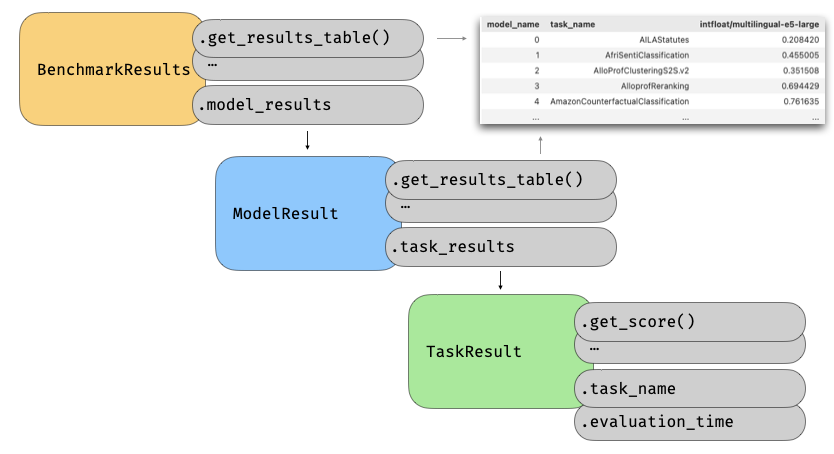
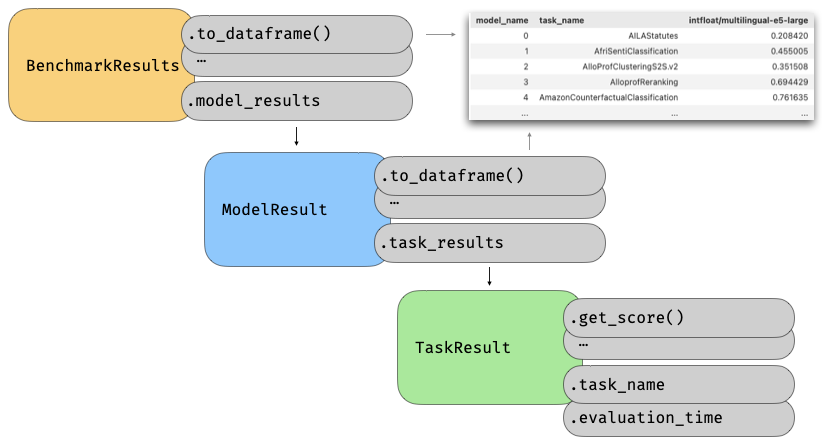
refactor to to_dataframe and combine common dependencies

diff --git a/mteb/load_results/benchmark_results.py b/mteb/load_results/benchmark_results.py
@@ -31,6 +31,41 @@ Score = Any
 logger = logging.getLogger(__name__)
 
 
+def _aggregate_and_pivot(
+    df: pd.DataFrame,
+    columns: list[str],
+    aggregation_level: Literal["subset", "split", "task"],
+    format: Literal["wide", "long"],
+    aggregation_fn: Callable[[list[Score]], Any] | None,
+) -> pd.DataFrame:
+    if aggregation_level == "subset":
+        index_columns = ["task_name", "split", "subset"]
+
+    elif aggregation_level == "split":
+        index_columns = ["task_name", "split"]
+
+    elif aggregation_level == "task":
+        index_columns = ["task_name"]
+
+    # perform aggregation
+    if aggregation_fn is None:
+        aggregation_fn = np.mean
+
+    if format == "wide":
+        return df.pivot_table(
+            index=index_columns,
+            columns=columns,
+            values="score",
+            aggfunc=aggregation_fn,
+        ).reset_index()
+    elif format == "long":
+        return (
+            df.groupby(columns + index_columns)
+            .agg(score=("score", aggregation_fn))
+            .reset_index()
+        )
+
+
 class ModelResult(BaseModel):
     """Data class to hold the results of a model on a set of tasks.
 
@@ -206,7 +241,7 @@ class ModelResult(BaseModel):
 
         return scores_data
 
-    def get_results_table(
+    def to_dataframe(
         self,
         aggregation_level: Literal["subset", "split", "task"] = "task",
         aggregation_fn: Callable[[list[Score]], Any] | None = None,
@@ -257,33 +292,13 @@ class ModelResult(BaseModel):
         else:
             _columns.append("model_revision")
 
-        # Aggregation
-        if aggregation_level == "subset":
-            index_columns = ["task_name", "split", "subset"]
-
-        elif aggregation_level == "split":
-            index_columns = ["task_name", "split"]
-
-        elif aggregation_level == "task":
-            index_columns = ["task_name"]
-
-        # perform aggregation
-        if aggregation_fn is None:
-            aggregation_fn = np.mean
-
-        if format == "wide":
-            return df.pivot_table(
-                index=index_columns,
-                columns=_columns,
-                values="score",
-                aggfunc=aggregation_fn,
-            ).reset_index()
-        elif format == "long":
-            return (
-                df.groupby(_columns + index_columns)
-                .agg(score=("score", aggregation_fn))
-                .reset_index()
-            )
+        return _aggregate_and_pivot(
+            df,
+            columns=_columns,
+            aggregation_level=aggregation_level,
+            format=format,
+            aggregation_fn=aggregation_fn,
+        )
 
     def __hash__(self) -> int:
         return id(self)
@@ -604,7 +619,7 @@ class BenchmarkResults(BaseModel):
                     )
         return entries
 
-    def get_results_table(
+    def to_dataframe(
         self,
         aggregation_level: Literal["subset", "split", "task"] = "task",
         aggregation_fn: Callable[[list[Score]], Any] | None = None,
@@ -662,32 +677,13 @@ class BenchmarkResults(BaseModel):
             _columns.append("model_revision")
 
         # Aggregation
-        if aggregation_level == "subset":
-            index_columns = ["task_name", "split", "subset"]
-
-        elif aggregation_level == "split":
-            index_columns = ["task_name", "split"]
-
-        elif aggregation_level == "task":
-            index_columns = ["task_name"]
-
-        # perform aggregation
-        if aggregation_fn is None:
-            aggregation_fn = np.mean
-
-        if format == "wide":
-            return df.pivot_table(
-                index=index_columns,
-                columns=_columns,
-                values="score",
-                aggfunc=aggregation_fn,
-            ).reset_index()
-        elif format == "long":
-            return (
-                df.groupby(_columns + index_columns)
-                .agg(score=("score", aggregation_fn))
-                .reset_index()
-            )
+        return _aggregate_and_pivot(
+            df,
+            columns=_columns,
+            aggregation_level=aggregation_level,
+            aggregation_fn=aggregation_fn,
+            format=format,
+        )
 
     def __iter__(self):
         return iter(self.model_results)

diff --git a/tests/test_load_results/test_benchmark_results.py b/tests/test_load_results/test_benchmark_results.py
@@ -94,12 +94,12 @@ def test_get_results_table(
         "subset",
         "split",
     ]
-    t1 = benchmark_results.get_results_table(aggregation_level="subset", format="long")
+    t1 = benchmark_results.to_dataframe(aggregation_level="subset", format="long")
     assert isinstance(t1, pd.DataFrame)
     assert all(col in t1.columns for col in required_columns), "Columns are missing"
     assert t1.shape[0] > 0, "Results table is empty"
 
-    t2 = benchmark_results.get_results_table(aggregation_level="split", format="long")
+    t2 = benchmark_results.to_dataframe(aggregation_level="split", format="long")
     assert all(
         col in t2.columns for col in required_columns if col not in ["subset"]
     ), "Columns are missing"
@@ -108,7 +108,7 @@ def test_get_results_table(
         "Aggregation level 'split' should have more rows than 'subset'"
     )
 
-    t3 = benchmark_results.get_results_table(aggregation_level="task", format="long")
+    t3 = benchmark_results.to_dataframe(aggregation_level="task", format="long")
     assert all(
         col in t3.columns for col in required_columns if col not in ["subset", "split"]
     ), "Columns are missing"
@@ -120,7 +120,7 @@ def test_get_results_table(
 
     # test no model revisions
     benchmark_res = benchmark_results.join_revisions()
-    t1 = benchmark_res.get_results_table(aggregation_level="subset", format="long")
+    t1 = benchmark_res.to_dataframe(aggregation_level="subset", format="long")
     assert "model_revision" not in t1.columns, (
         "Model revision column should not be present"
     )
@@ -131,8 +131,8 @@ def test_get_results_table(
     # simplify down to one model and one task
     br = benchmark_res.select_models([model_name]).select_tasks([task])
 
-    t4_wide = br.get_results_table(aggregation_level="task", format="wide")
-    t4_long = br.get_results_table(aggregation_level="task", format="long")
+    t4_wide = br.to_dataframe(aggregation_level="task", format="wide")
+    t4_long = br.to_dataframe(aggregation_level="task", format="long")
     assert isinstance(t4_wide, pd.DataFrame)
 
     # check that the scores are the same for a given model

diff --git a/tests/test_load_results/test_model_results.py b/tests/test_load_results/test_model_results.py
@@ -87,12 +87,12 @@ def test_get_results_table(
         "subset",
         "split",
     ]
-    t1 = mr.get_results_table(aggregation_level="subset", format="long")
+    t1 = mr.to_dataframe(aggregation_level="subset", format="long")
     assert isinstance(t1, pd.DataFrame)
     assert all(col in t1.columns for col in required_columns), "Columns are missing"
     assert t1.shape[0] > 0, "Results table is empty"
 
-    t2 = mr.get_results_table(aggregation_level="split", format="long")
+    t2 = mr.to_dataframe(aggregation_level="split", format="long")
     assert all(
         col in t2.columns for col in required_columns if col not in ["subset"]
     ), "Columns are missing"
@@ -101,7 +101,7 @@ def test_get_results_table(
         "Aggregation level 'split' should have more rows than 'subset'"
     )
 
-    t3 = mr.get_results_table(aggregation_level="task", format="long")
+    t3 = mr.to_dataframe(aggregation_level="task", format="long")
     assert all(
         col in t3.columns for col in required_columns if col not in ["subset", "split"]
     ), "Columns are missing"
@@ -111,8 +111,8 @@ def test_get_results_table(
         "Aggregation level 'task' should have more rows than 'split'"
     )
 
-    t4_wide = mr.get_results_table(aggregation_level="task", format="wide")
-    t4_long = mr.get_results_table(aggregation_level="task", format="long")
+    t4_wide = mr.to_dataframe(aggregation_level="task", format="wide")
+    t4_long = mr.to_dataframe(aggregation_level="task", format="long")
     assert isinstance(t4_wide, pd.DataFrame)
 
     # we know it is only one task
